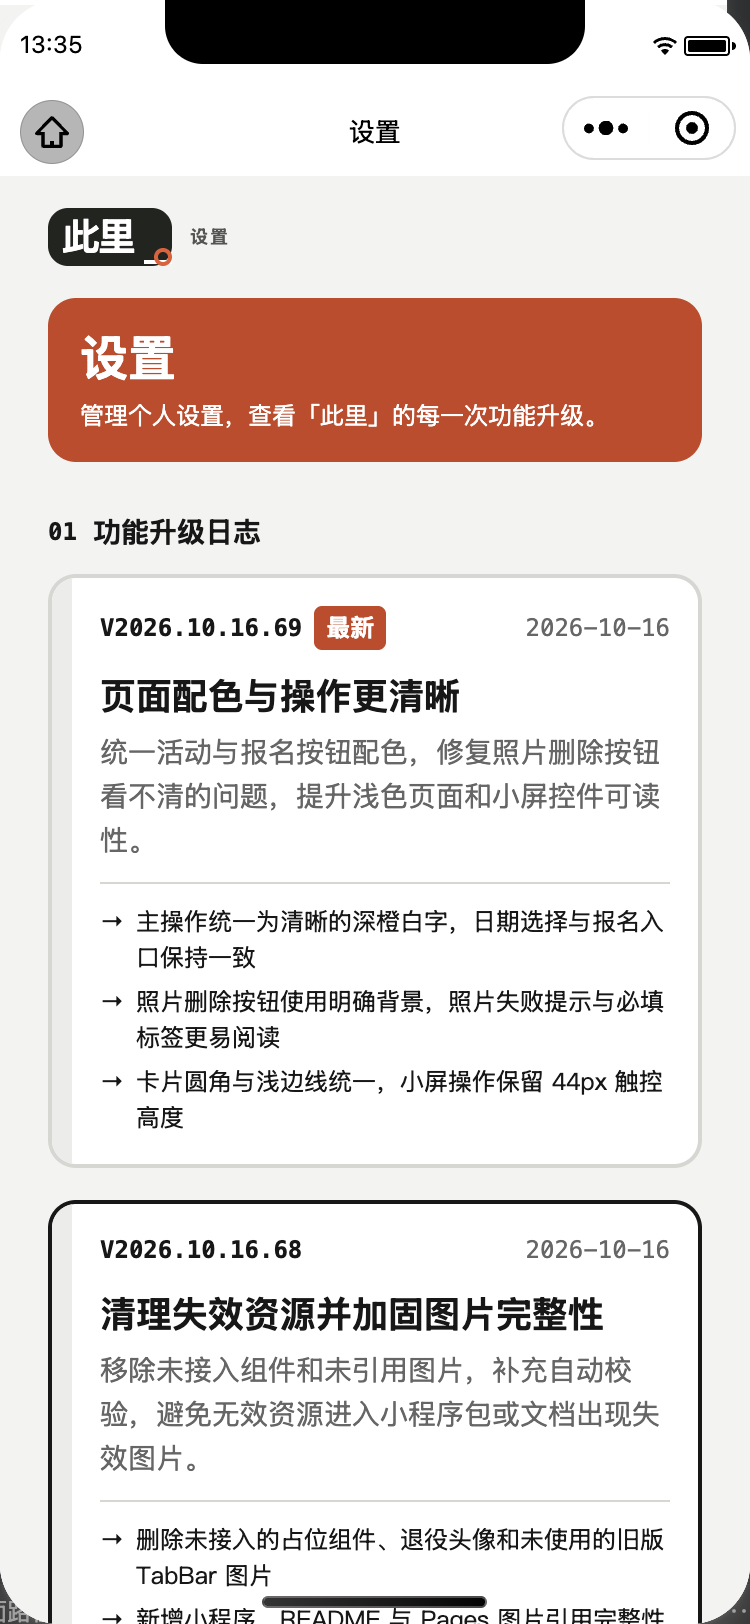
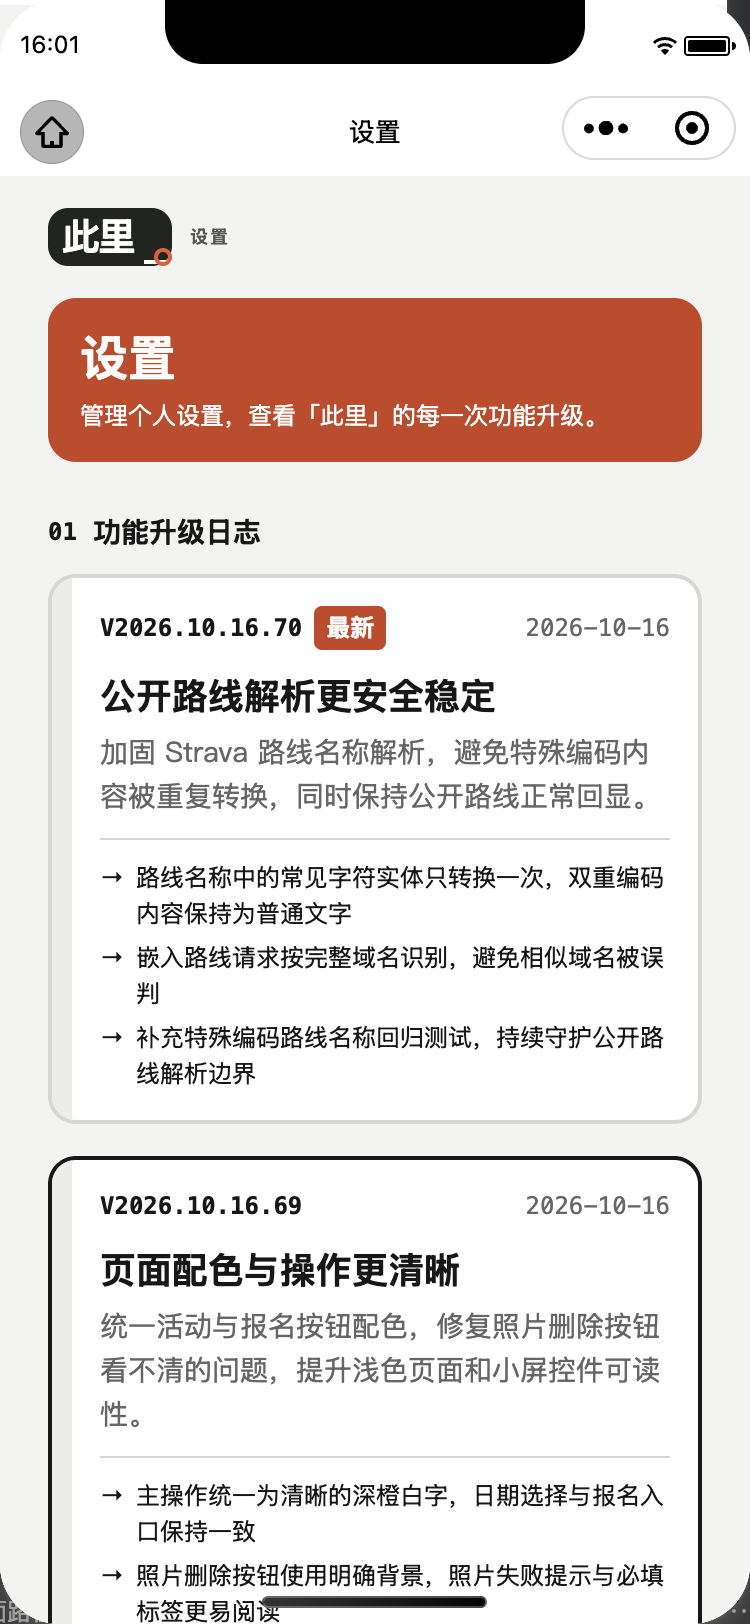
fix(e2e): 稳定页面导航并同步验收证据

Changed region(s): [[0.0613, 0.3695, 0.9507, 1.0], [0.0307, 0.0, 0.092, 0.0308]]

diff --git a/docs/schema.js b/docs/schema.js
@@ -163,7 +163,7 @@ window.prototypeData = {
       navTitle: '设置',
       group: '个人资料',
       role: '骑友',
-      state: 'V2026.10.16.69',
+      state: 'V2026.10.16.70',
       copy: '管理个人设置，查看「此里」最近五次功能升级日志。',
       states: [['default', '默认']],
       problems: ['截图未覆盖；现状版本号、日期与说明字号混用（补充）'],
@@ -440,10 +440,10 @@ window.prototypeData = {
   driver: { name: '王师傅', phone: '139 0000 1234', car: '京A·S1234 白色金杯' },
   attendees: ['风向骑手', '小北', '麦子', '路飞', '阿洛'],
   releaseNotes: [
+    ['2026.10.16.70', '公开路线解析更安全稳定', '加固 Strava 路线名称解析，避免特殊编码内容被重复转换，同时保持公开路线正常回显。'],
     ['2026.10.16.69', '页面配色与操作更清晰', '统一活动与报名按钮配色，修复照片删除按钮看不清的问题，提升浅色页面和小屏控件可读性。'],
     ['2026.10.16.68', '清理失效资源并加固图片完整性', '移除未接入组件和未引用图片，补充图片引用完整性校验。'],
     ['2026.10.15.67', '活动编辑图片由云函数可靠回显', '管理云函数统一签发活动图片、群二维码和路线图的临时地址。'],
     ['2026.10.15.66', '图片回显恢复与版本日志可核对', '失效本地照片重新签发，设置页与运行时复用同一版本号。'],
-    ['2026.10.15.65', '骑行名片与照片改由服务端恢复', '受保护照片失败后重新签发地址，保留头像兜底。'],
   ],
 };

diff --git a/tests/showcase-pages-contract.test.ts b/tests/showcase-pages-contract.test.ts
@@ -148,6 +148,16 @@ describe('GitHub Pages 全页面高保真原型门禁', () => {
     expect(script).toContain("admin: 'admin-activity-list'");
   });
 
+  it('设置页原型同步当前客户端版本与最新功能日志', () => {
+    expect(schema).toContain("state: 'V2026.10.16.70'");
+    expect(schema).toContain(
+      "['2026.10.16.70', '公开路线解析更安全稳定', '加固 Strava 路线名称解析，避免特殊编码内容被重复转换，同时保持公开路线正常回显。']",
+    );
+    expect(schema).toContain(
+      "['2026.10.16.69', '页面配色与操作更清晰', '统一活动与报名按钮配色，修复照片删除按钮看不清的问题，提升浅色页面和小屏控件可读性。']",
+    );
+  });
+
   it('支持哈希路由、页面回退、键盘切换和关键业务反馈', () => {
     expect(script).toContain("window.addEventListener('hashchange'");
     expect(script).toContain("window.addEventListener('keydown'");

diff --git a/docs/verification/2026-10-16-multi-round-core-uat.md b/docs/verification/2026-10-16-multi-round-core-uat.md
@@ -1,8 +1,10 @@
 # 2026-10-16 多轮核心链路与 UAT 前置验收
 
-状态：PR #238 已合入并上传开发版；三轮真实云只读 E2E 通过，当前旅程 v2 预检与证据工具已上线。部署后复测发现旧页面句柄可造成错页误验收，当前修复分支已用失败实跑确认并完成 24/24 回归。普通成员写链路、iOS/Android 物理真机和体验版 UAT 因现场前置不足标记为 `not_executed`，不能关闭对应 P0/P1。
+状态：PR #238 已合入并上传开发版；三轮真实云只读 E2E 通过，当前旅程 v2 预检与证据工具已上线。PR #240 已阻止旧页面句柄造成错页误验收；后续 tabBar 导航与有界重发修复分支在客户端 `.69`、`.70` 各完成 24/24 真实云回归，仍需合入后从干净主干复测。普通成员写链路、iOS/Android 物理真机和体验版 UAT 因现场前置不足标记为 `not_executed`，不能关闭对应 P0/P1。
 
 三轮原始运行基线为 `ce79517239e78fe400a4b46cd918e02cc45a2c0b`；v2 功能提交为 `ce94914c1b93364d4361fbc1a39580027af68b13`，客户端 `2026.10.16.69`，开发版 `0.0.241.1`。main CI [38865578645](https://github.com/MengEn-Ink/cili-cycling-miniapp/actions/runs/38865578645)、Pages [38865578539](https://github.com/MengEn-Ink/cili-cycling-miniapp/actions/runs/38865578539) 和上传 [38865736980](https://github.com/MengEn-Ink/cili-cycling-miniapp/actions/runs/38865736980) 均成功。
+
+最新合入基线为 `8d408852141f18181a3f08e67f1eef9251b8218f`（PR #241），客户端 `2026.10.16.70`，开发版 `0.0.244.1`。main CI [38870368656](https://github.com/MengEn-Ink/cili-cycling-miniapp/actions/runs/38870368656)、Pages [38870369347](https://github.com/MengEn-Ink/cili-cycling-miniapp/actions/runs/38870369347)、CodeQL [38870368600](https://github.com/MengEn-Ink/cili-cycling-miniapp/actions/runs/38870368600) 和上传 [38870500651](https://github.com/MengEn-Ink/cili-cycling-miniapp/actions/runs/38870500651) 均成功。
 
 ## 验收矩阵
 
@@ -14,7 +16,7 @@
 | 审计与脱敏 | 单测通过 | 支持取消→重报→收尾取消的第二条 cancelled；真实目标替换为同 RUN_ID 合成别名 |
 | 签名与敏感字段 | 单测通过 | v2 独立签名域；未知字段、重复 JSON key、敏感 key、伪造别名继续拒绝 |
 | 冷启动稳定性 | 已修复 | `miniprogram-automator` 实际参数为 `timeout`；旧 `launchTimeout` 未生效 |
-| 真实云只读 | 3 轮通过 | 每轮 24 项、13 路由、16 张本地截图；合计 72/72、0 异常 |
+| 真实云只读 | 基线 3 轮及修复分支 2 轮通过 | 基线每轮 24 项、13 路由、16 张本地截图，合计 72/72；tabBar 修复分支在客户端 `.69`、`.70` 各有 24/24、0 异常 |
 | 管理员自报名写入 | 未进入业务步骤 | 两次均在创建活动页前丢失页面上下文；0 活动、0 报名、无需补偿，停止重试 |
 | 普通成员写链路 | `not_executed` | 开发者工具 `testAccounts()` 返回 0，当前登录账号是管理员，禁止用管理员冒充普通成员 |
 | iOS 真机 | `not_executed` | 未连接 iOS 物理设备，不能验证相册、扫码、分享、安全区和系统字体 |
@@ -37,6 +39,12 @@
 从干净主干 `ce94914c` 复测时，报告为 13 通过、8 失败、只访问 12 个路由；`01-activities.png` 实际显示“我的行程”。根因不是产品页面，而是 automator 的 `reLaunch()` 可返回旧页面对象，脚本又把该对象的旧路径作为期望路径，导致路由未切换时等待提前成功并继续读取错页数据。
 
 当前修复新增 `relaunchWhenReady`：发起路由重启后，每轮都重新调用 `currentPage()`，并同时核对请求 URL 的目标路径和该当前页数据。失败用例以“返回旧行程页句柄、随后活动页加载”为固定输入，修复前模块缺少该能力，修复后通过。真实云复测 2026-10-16 07:20:29–07:21:55 UTC 为 24/24、13 路由、16 张本地截图、0 异常；UI 摘要保持不变。该次工作区包含当前脚本修复，仍需合入后从干净主干再跑一次，不能用它直接关闭部署验收。
+
+PR #240 合入后的干净主干 `056929bd` 首轮复测在 0 项业务检查时以 `PAGE_NOT_READY` 退出：旧页面不再被误判为成功，但首个目标活动页属于 tabBar，继续使用 `reLaunch` 会被当前 IDE 忽略。后续修复按 `app.json` 对 tabBar 使用 `switchTab`，其他页面继续使用 `reLaunch`；同时在总 30 秒预算内把只读路由命令最多重发一次，每次仍严格核对当前路径和数据。固定用例分别覆盖 tabBar 方法选择和第一次停在行程页、第二次进入活动页；重发不是业务写入重试，也不会放宽最终路径或超时门禁。
+
+修复分支冷启动实跑 2026-10-16 07:53:50–07:55:18 UTC 为 24/24、13 路由、16 张本地截图、0 异常。活动页与行程页截图分别显示对应标题、内容和选中 tab，375×812 模拟器视口未见错页、浅色文字消失或明显溢出。报告基线 SHA 为 `056929bd` 且 `dirty=true`，原始证据位于 `/tmp/cili-e2e-20261016/tabbar-cold-2/`；因此该结果证明修复分支有效，但仍不替代合入后的干净主干复测。
+
+同步 PR #241 后，客户端 `.70` 的首轮热会话在 0 项检查时以 `PAGE_NOT_READY` 退出并保留失败报告；正常退出 IDE 后只进行一次冷启动复测，2026-10-16 08:00:18–08:01:51 UTC 为 24/24、13 路由、16 张本地截图、0 异常，设置页版本也与 `.70` 一致。报告基线 SHA 为 `8d408852` 且 `dirty=true`，原始成功证据位于 `/tmp/cili-e2e-20261016/tabbar-main-8d408852-cold/`，失败证据位于相邻的 `tabbar-main-8d408852/`；两者都不替代合入后的干净主干复测。
 
 ## 完整写链路复测步骤
 

diff --git a/docs/high-priority-issues.md b/docs/high-priority-issues.md
@@ -6,9 +6,9 @@
 
 ## 当前基线
 
-- 代码基线：`main` 最新提交 `459b7404`（PR #237）；旅程 v2 功能提交为 `ce94914c`（PR #238），当前分支 `fix/e2e-route-readiness-20261016` 修复部署后复测发现的旧页面句柄误验收。客户端仍为 `2026.10.16.69`。
-- PR #238 main CI：run [38865578645](https://github.com/MengEn-Ink/cili-cycling-miniapp/actions/runs/38865578645) 成功；Pages：run [38865578539](https://github.com/MengEn-Ink/cili-cycling-miniapp/actions/runs/38865578539) 成功，本轮新增四个公开文档/证据文件与线上内容匹配。
-- 最近一次已核验微信开发版：run [38865736980](https://github.com/MengEn-Ink/cili-cycling-miniapp/actions/runs/38865736980) 实际上传成功，版本 `0.0.241.1`，回执 SHA 为 `ce94914c`。是否存在更新版本以微信后台和最新 workflow 为准。
+- 代码基线：`main` 最新提交 `8d408852`（PR #241）；旅程 v2 功能提交为 `ce94914c`（PR #238），当前分支 `fix/e2e-relaunch-retry-20261016` 修正 tabBar 导航方法、首次丢失的只读路由命令有界重发，并同步客户端 `.70` 的 Pages 设置页证据。客户端为 `2026.10.16.70`。
+- PR #241 main CI：run [38870368656](https://github.com/MengEn-Ink/cili-cycling-miniapp/actions/runs/38870368656) 成功；Pages：run [38870369347](https://github.com/MengEn-Ink/cili-cycling-miniapp/actions/runs/38870369347) 成功；CodeQL：run [38870368600](https://github.com/MengEn-Ink/cili-cycling-miniapp/actions/runs/38870368600) 成功。
+- 最近一次已核验微信开发版：run [38870500651](https://github.com/MengEn-Ink/cili-cycling-miniapp/actions/runs/38870500651) 实际上传成功，版本 `0.0.244.1`，回执 SHA 为 `8d408852`。是否存在更新版本以微信后台和最新 workflow 为准。
 - 云函数：`profile`、`registration`、`activity-read`、`activity-admin`、`admin-review` 已按对应功能 PR 部署；`route-web` 与 `/route/embed` 已确认下线。纯文档、测试和未引用资源清理不触发云函数部署。
 - GitHub 实时状态是 PR、分支与 workflow 的唯一事实源；本文件不维护已完成分支清单。
 
@@ -21,7 +21,7 @@
 | P0 | Strava / GPX 路线双模式验收 | Strava 公开路线免授权解析、规范化链接复制、GPX 解析与下载已实现；旧 OAuth、`route-web` 和内嵌路线页已退役 | 使用当前开发版完成 iOS/Android 的公开路线解析、GPX 文件选择、Canvas 和下载验收；确认历史 OAuth 数据 dry-run 与备份后再决定是否执行 purge |
 | P0 | 云端密钥与媒体链路就绪性 | 媒体 owner/canonical、`PROFILE_MEDIA_PATH_SECRET`、加密与服务端临时地址签发均有测试和部署记录 | 在目标环境回读受影响函数配置并完成真实头像、背景图、活动图、群二维码和路线图 smoke；缺证据时不得宣称线上就绪 |
 | P1 | 体验版晋级与 UAT | 开发版自动上传和候选/验证两阶段晋级工作流已具备；本轮前置探测和 `not_executed` 证据已归档 | 配置普通成员 test ticket、连接双真机并完成写链路后，选择已核验开发版晋级体验版，留存版本、时间、验收人和结果 |
-| P1 | Pages / 微信统一设计与运行证据 | 统一规范、32 个变量与 15 组对比度；13 对脱敏截图和逐页差异；PR #233、Pages 与开发版回执已核验；三次真实云只读回归 UI 摘要一致；旧页面句柄问题已由失败实跑捕获并在当前分支修复，修复后 24/24 | 完成路由门禁修复 PR 与部署后干净主干复测；继续收敛结构差异，普通成员写链路与物理真机独立验收 |
+| P1 | Pages / 微信统一设计与运行证据 | 统一规范、32 个变量与 15 组对比度；13 对脱敏截图和逐页差异；PR #233、Pages 与开发版回执已核验；旧页面句柄误验收已由 PR #240 修复；当前分支在客户端 `.69`、`.70` 各完成 24/24，并把 `.70` 设置页同步至 Pages 后通过严格 UI 门禁 | 合入当前修复并从干净主干再跑 24/24；继续收敛结构差异，普通成员写链路与物理真机独立验收 |
 | P1 | 当前旅程离线签发器迁移 | PR #238 已合入并上传开发版 `0.0.241.1`；v2 公开路线/GPX、双平台和九类 UAT 契约上线，v1 仅作历史兼容 | 以真实普通成员和双真机数据生成一份 v2 证据并校验通过后移除 |
 
 ## 分支与交付约束

diff --git a/docs/verification/wechat-devtools-e2e.md b/docs/verification/wechat-devtools-e2e.md
@@ -17,7 +17,7 @@
 1. `git fetch origin`，从最新 `origin/main` 建分支；先读高优清单，检查开放 PR，记录起点 SHA 与 Pages 工作流。
 2. 安装依赖并执行 `npm ci && npm run cloud:install`，然后 `npm run validate`、`npm run coverage`、`npm run audit:all`。UI 变化执行 `npm run check:design`。
 3. 只在涉及函数、规则或索引时部署相应云资源并回读。确认小程序 AppID、运行云环境与测试账号匹配；禁止凭证进入截图或日志。
-4. 在登录的微信开发者工具运行只读 E2E，记录每个页面状态及运行时尺寸。导航必须通过 `relaunchWhenReady` 每轮重新读取 `currentPage()`，同时等待请求 URL 对应路径和该当前页的 loading 状态；不得信任 `reLaunch()` 返回的旧页面句柄。超时要保留失败报告。
+4. 在登录的微信开发者工具运行只读 E2E，记录每个页面状态及运行时尺寸。tabBar 页面按 `app.json` 使用 `switchTab`，其他页面使用 `reLaunch`；两者都通过 `relaunchWhenReady` 每轮重新读取 `currentPage()`，同时等待请求 URL 对应路径和该当前页的 loading 状态，不信任导航 API 返回的旧页面句柄。只读路由命令首次丢失时可在总 30 秒预算内重发一次，第二次仍未就绪立即失败并保留报告；业务写入不得套用此重试。
 5. 同版本 Pages 使用 `?capture=viewport#<路由>`。标准设计视口 375×812；与模拟器对比时必须使用其实际 CSS 视口，差异写入记录。`?capture` 保留长页设计查看模式。
 6. 按下表采集全部路由，滚动核对底部操作、长文本、错误/空态、输入焦点和照片操作。公开目录只放脱敏截图；原始图留在受控本地。
 7. 更新 `ui-sync-manifest.json` 的内容摘要、时间、视口、双端截图与差异说明，执行 `npm run check:ui-sync -- --strict`。机器只校验完整性；人工结论单独记录。

diff --git a/docs/verification/2026-10-16-design-e2e-acceptance.md b/docs/verification/2026-10-16-design-e2e-acceptance.md
@@ -17,6 +17,12 @@
 
 公开 [26 张双端截图与逐页说明](../evidence/ui-sync/2026-10-16-design-acceptance/index.html)、[只读运行报告](../evidence/ui-sync/2026-10-16-design-acceptance/runtime-report.json) 和 [脱敏区域](../evidence/ui-sync/2026-10-16-design-acceptance/redactions.json) 已归档。照片、头像、昵称、实名、电话、凭证号和报名编号使用不透明矩形遮盖，没有注入假数据替代真实运行。Pages 人物与业务字段仍是演示数据。
 
+### 客户端 `.70` 设置页证据刷新
+
+PR #241 将客户端升级为 `2026.10.16.70` 并更新设置页最新日志，但 Pages 仍停在 `.69`，严格 UI 同步门禁因此失败。新增 Pages 契约先稳定复现该漂移，再同步 `.70` 日志和最近五个版本。基于最新 main `8d408852` 的冷启动真实云只读 E2E 为 24/24、13 路由、16 张本地截图、0 异常；设置页运行截图与 375×812 Pages 截图均显示 `.70`，无横向裁切。
+
+本次只有设置页内容发生变化，因此公开证据只重采 `settings-devtools.png` 与 `settings-pages.png`；其余 12 对页面内容未变，继续使用已脱敏且已人工核对的原图。运行报告、UI 与 Pages 摘要、同步时间和设置页状态已刷新；这不改变普通成员写链路和物理真机仍为未执行的结论。
+
 ## 修复与约束
 
 1. Pages 原主操作亮橙白字仅 3.52:1，小程序全局 CTA 为黑色且局部仍覆盖为亮橙。统一改为深橙 `#c84320` 白字（4.91:1），保持品牌亮橙用于信号与装饰。
